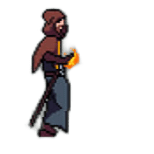
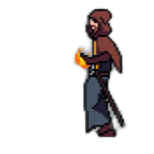
segunda version

diff --git a/sketch.js b/sketch.js
@@ -44,7 +44,7 @@ let medusa6;
 let medusa7;
 let medusa8;
 
-let randomMago=0;
+let randomMago=2;
 let imago=0;
 let animacion_mago = false;
 let mago1;
@@ -146,44 +146,51 @@ function draw() {
   text("Puntaje: " + puntaje, width/2, 100);
 
   //Enemigos
-  //medusa
   if(ataque==false){
-    randomEnemigo = (random(1, 300));
+    randomEnemigo = Math.floor(random(0, 10));
     console.log("ataque false")
     animacion_medusa = false;
+    animacion_mago = false;
+    console.log(randomEnemigo);
   }
-  if(randomEnemigo>randomMedusa && randomEnemigo<randomMedusa+1){
+
+  switch(randomEnemigo){
+    case randomMedusa:
     ataque = true;
     if(animacion_medusa==false){
     ataqueMedusa( 1000-imedusa, 460, 60, 60);
     console.log("ataque medusa");
     imedusa+=5;
     }
-    if(1000-imedusa>60 && 1000-imedusa<140 && posY>460 && posY<540){
+    if(/*1000-imedusa>90 && 1000-imedusa<110  &*/ posY>490 && posY<510){
       congelado = true;
       estado=0;
       console.log("congelado");
     }
-//mago
-if(randomEnemigo>randomMago && randomEnemigo<randomMago+1){
+    break;
+    case randomMago:
     ataque = true;
-    if(animacion_medusa==false){
-    ataqueMago( 1000-imago, 460, 60, 60);
     console.log("ataque mago");
-    imago+=5;
+    if(animacion_mago==false){
+    ataqueMago( 1000-imago, 440, 180,180);
+    console.log("ataque mago");
+    imago+=4;
     }
-    if(1000-imago>60 && 1000-imago<140 && posY>460 && posY<540){
+    if(1000-imago>80 && 1000-imago<120 && posY>480 && posY<529){
       congelado = true;
       estado=0;
       console.log("asesinado");
     }
+    break;
   }
+
 } else if(estado === 0){
   ataque = false;
   congelado = false;
   animacion_medusa = false;
   animacion_mago = true;
   ime = 0;
+  imago = 0;
   aux = 0;
   imedusa = 0;
   background(0);
@@ -293,17 +300,17 @@ function dragon_volando(x, y, w, h){
     image(mago1, x, y, w, h);
   }else if(imago<2*v){
     image(mago2, x, y, w, h);
-  }else if(imago<3*v){
-    image(mago3, x, y, w, h);
   }else if(imago<4*v){
+    image(mago3, x, y, w, h);
+  }else if(imago<8*v){
     image(mago4, x, y, w, h);
-  }else if(imago<5*v){
+  }else if(imago<12*v){
     image(mago5, x, y, w, h);
-  }else if(imago<6*v){
+  }else if(imago<14*v){
     image(mago6, x, y, w, h);
-  }else if(imago<30*v){
+  }else if(imago<180*v){
     image(mago7, x, y, w, h);
-  }else if(imago<31*v){
+  }else if(imago<300*v){
     imago=1;
     animacion_mago = true;
     console.log("congelado");
@@ -312,4 +319,3 @@ function dragon_volando(x, y, w, h){
   }
   imago++;
   }
-}
